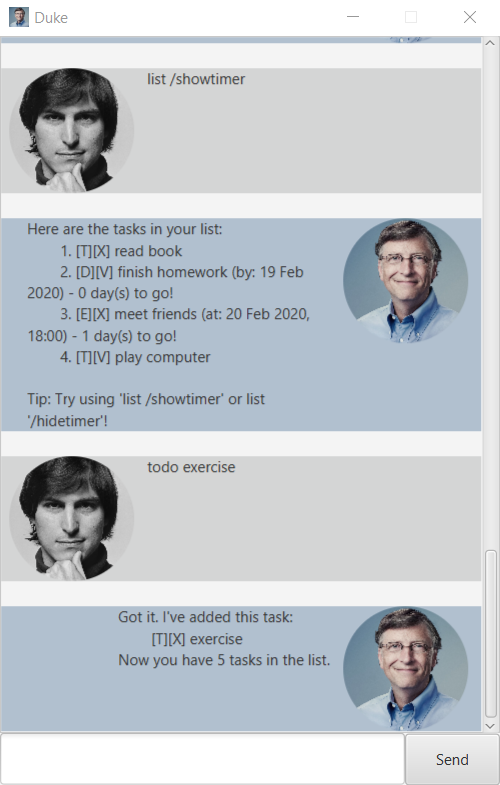
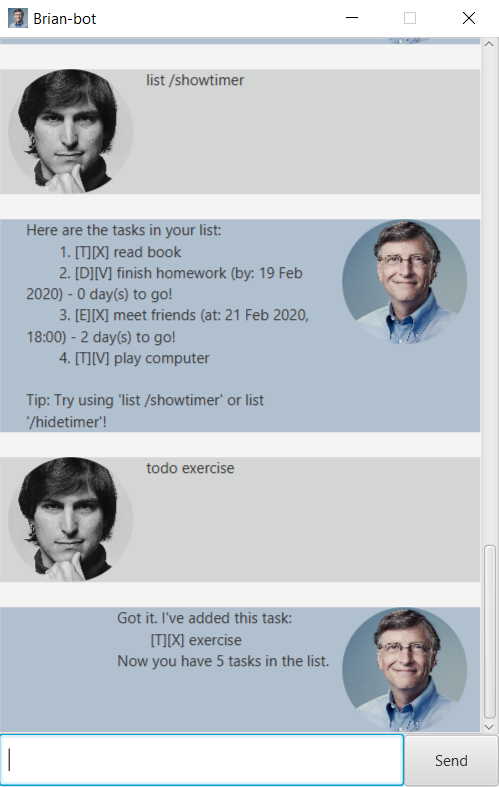
Changed app name

diff --git a/src/main/java/duke/main/Main.java b/src/main/java/duke/main/Main.java
@@ -26,7 +26,7 @@ public class Main extends Application {
             AnchorPane ap = fxmlLoader.load();
             Scene scene = new Scene(ap);
             stage.setScene(scene);
-            stage.setTitle("Duke");
+            stage.setTitle("Brian-bot");
             stage.getIcons().add(new Image("/images/Bill Gates.jpg"));
             stage.setResizable(false);
             fxmlLoader.<MainWindow>getController().setDuke(duke);
